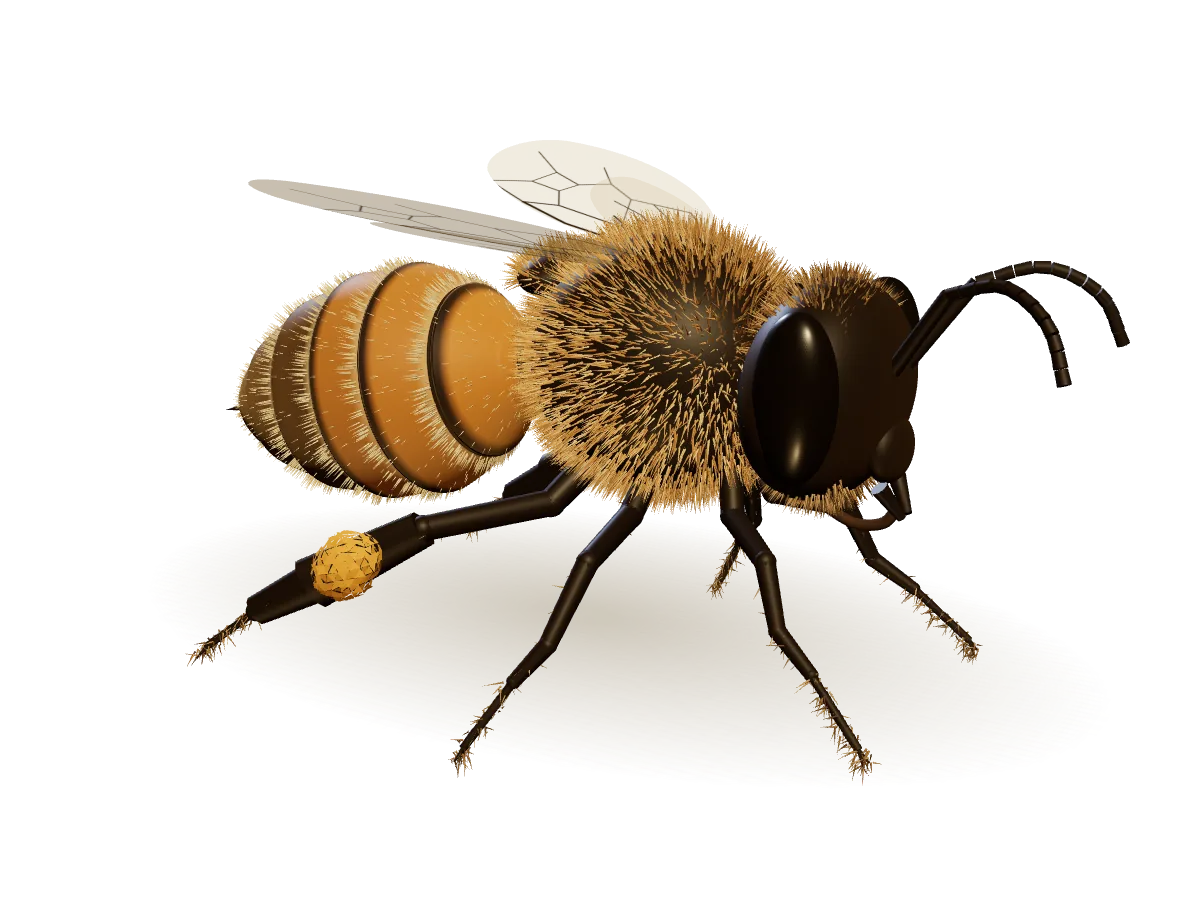
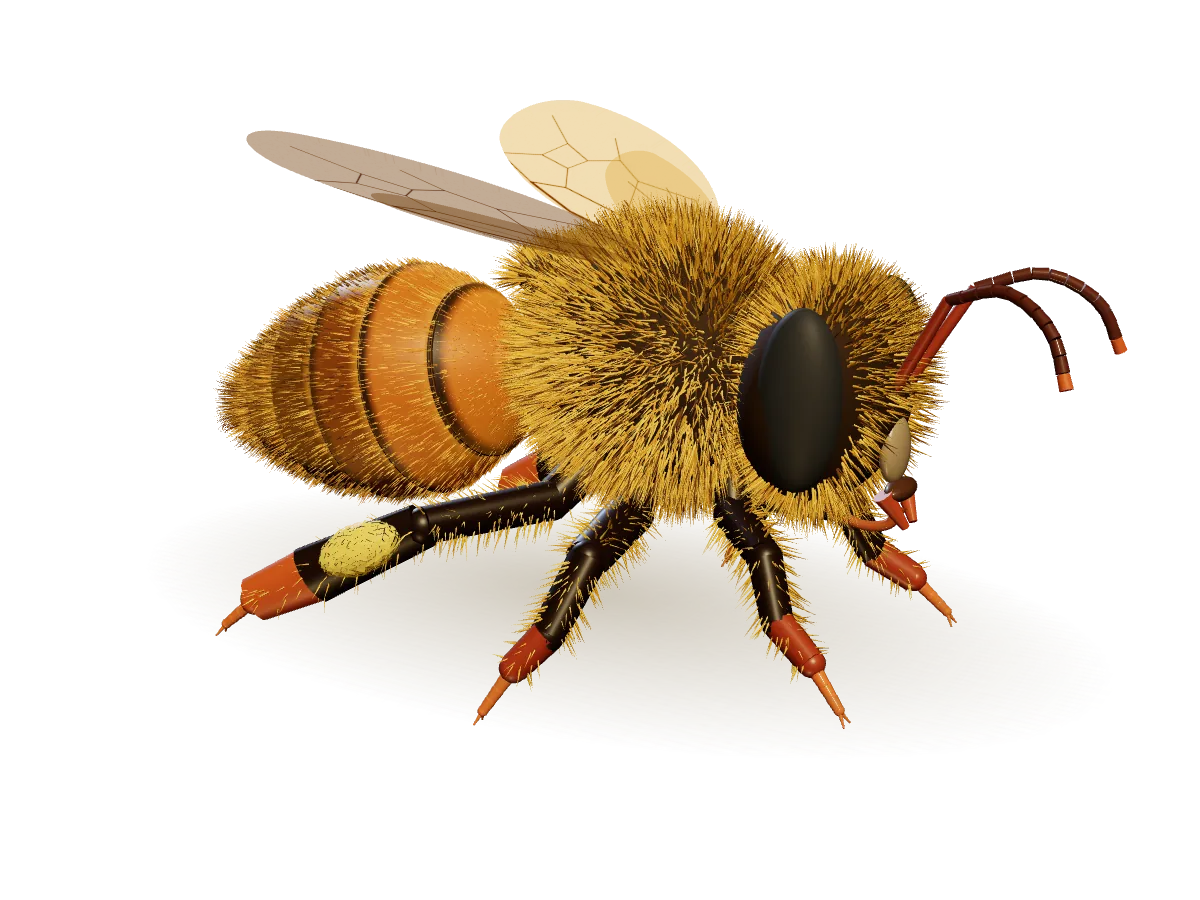
Ape 3D: nuova versione ispirata alle foto di riferimento
Pelliccia dorata fitta su torace, testa, addome e zampe; addome ambrato
davanti e bruno dietro; occhi grigio scuro opachi; faccia con clipeo
chiaro e mandibole arancio; antenne rossicce; zampe più robuste con femore
scuro, tibia rossiccia e tarsi arancio; ali ambrate e sollevate; polline
giallo limone nella cestella.

Claude-Session: https://claude.ai/code/session_0158YTuXUDsj15VT1c2xNVLb

Changed region(s): [[0.1542, 0.0933, 0.9558, 0.8711]]

diff --git a/js/ape3d.js b/js/ape3d.js
@@ -11,12 +11,12 @@ const COL = {
   cuticola: 0x241a12,
   zampe: 0x2a1f16,
   occhio: 0x17110d,
-  ambra: 0xc0802e,
-  ambraScuro: 0x8a5520,
-  banda: 0x2a1c12,
+  ambra: 0xcf7a20,
+  ambraScuro: 0x9a5418,
+  banda: 0x3a2412,
   peloTorace: [0xc49455, 0xd8b077, 0xa77a41],
   peloTesta: [0x9c7a4f, 0xb79466, 0x6f5638],
-  peloAddome: [0xd9c49a, 0xc9b183],
+  peloAddome: [0xd9a33a, 0xc99030],
   polline: 0xe3a136,
 };
 
@@ -87,7 +87,7 @@ function addome() {
   const amb = new THREE.Color(COL.ambra), ambS = new THREE.Color(COL.ambraScuro), ban = new THREE.Color(COL.banda), pel = new THREE.Color(COL.peloAddome[0]);
   for (let i = 0; i < pos.count; i++) {
     const t = -pos.getY(i) / ADDOME.L, s = (t * ADDOME.N) % 1, seg = Math.floor(t * ADDOME.N);
-    if (seg <= 2) c.copy(amb).lerp(ambS, seg * 0.25);   // ligustica: tre bande ambrate
+    if (seg <= 1) c.copy(amb).lerp(ambS, seg * 0.3); else if (seg === 2) c.copy(ambS).lerp(ban, 0.45);   // ligustica: tre bande ambrate
     else c.copy(ban).lerp(ambS, 0.12);
     if (s > 0.72) c.lerp(ban, Math.min(1, (s - 0.72) / 0.12));                 // margine scuro del tergite
     if (s < 0.16 && seg >= 1 && seg <= 4) c.lerp(pel, 0.55 * (1 - s / 0.16));  // fascia di peli chiari
@@ -103,7 +103,9 @@ function texturaAla(ant) {
   cv.width = W; cv.height = H;
   const x = cv.getContext('2d');
   x.clearRect(0, 0, W, H);
-  x.strokeStyle = 'rgba(60,42,26,1)'; x.lineCap = 'round'; x.lineJoin = 'round';
+  x.fillStyle = 'rgba(214,160,70,0.28)'; x.fillRect(0, 0, W, H);
+  for (let i = 0; i < 2600; i++) { x.fillStyle = 'rgba(150,100,40,0.18)'; x.fillRect(Math.random() * W, Math.random() * H, 1.5, 1.5); }
+  x.strokeStyle = 'rgba(112,62,24,1)'; x.lineCap = 'round'; x.lineJoin = 'round';
   const L = (w, pts) => { x.lineWidth = w; x.beginPath(); pts.forEach(([a, b], i) => (i ? x.lineTo(a * W, b * H) : x.moveTo(a * W, b * H))); x.stroke(); };
   if (ant) {
     L(7, [[0, .5], [.12, .2], [.45, .1], [.66, .13]]);            // costa
@@ -147,150 +149,163 @@ function formaAla(L, W, ant) {
 
 function ala(L, W, ant) {
   const m = new THREE.MeshPhysicalMaterial({
-    color: 0xf3ecdc, map: texturaAla(ant), transparent: true, opacity: 1, roughness: 0.25, metalness: 0,
+    color: 0xffffff, map: texturaAla(ant), transparent: true, opacity: 1, roughness: 0.22, metalness: 0,
     side: THREE.DoubleSide, depthWrite: false, iridescence: 0.9, iridescenceIOR: 1.35, iridescenceThicknessRange: [180, 520],
   });
   // membrana leggermente velata dietro le nervature
-  const veli = new THREE.MeshPhysicalMaterial({ color: 0xd9d2c0, transparent: true, opacity: 0.38, roughness: 0.2, side: THREE.DoubleSide, depthWrite: false, iridescence: 1, iridescenceIOR: 1.3, iridescenceThicknessRange: [200, 600] });
+  const veli = new THREE.MeshPhysicalMaterial({ color: 0xe9b863, transparent: true, opacity: 0.22, roughness: 0.2, side: THREE.DoubleSide, depthWrite: false, iridescence: 1, iridescenceIOR: 1.3, iridescenceThicknessRange: [200, 600] });
   const geo = formaAla(L, W, ant), gr = new THREE.Group();
   gr.add(new THREE.Mesh(geo, veli), new THREE.Mesh(geo, m));
   return gr;
 }
 
 // ---------- zampe ----------
-function zampa(punti, raggi, mat, opzioni = {}) {
+// punti: articolazioni; seg: per ogni segmento [raggio0, raggio1, materiale, piatto, densità peli, lunghezza peli]
+function zampa(punti, seg, tarsoMat, peliOut, rand) {
   const g = new THREE.Group();
   for (let i = 0; i < punti.length - 1; i++) {
-    const piatto = opzioni.piatte && opzioni.piatte.includes(i) ? 1.55 : 1;
-    const s = segmento(punti[i], punti[i + 1], raggi[i], raggi[i + 1] * (opzioni.allarga && opzioni.allarga.includes(i) ? 1.35 : 1), mat, piatto);
-    g.add(s);
-    const j = new THREE.Mesh(new THREE.SphereGeometry(raggi[i + 1] * 1.05, 12, 10), mat);
-    j.position.copy(punti[i + 1]); g.add(j);
+    let [r0, r1, mat, piatto = 1, dens = 0, lp = 0.08] = seg[i]; r0 *= 1.25; r1 *= 1.25;
+    const a = punti[i], b = punti[i + 1];
+    g.add(segmento(a, b, r0, r1, mat, piatto));
+    const j = new THREE.Mesh(new THREE.SphereGeometry(Math.min(r0, r1) * 1.02, 12, 10), mat); j.position.copy(b); g.add(j);
+    // peli: escono in tutte le direzioni dal segmento, un po' verso il basso e verso la punta
+    const ax = new THREE.Vector3().subVectors(b, a), L = ax.length(); ax.normalize();
+    const u = new THREE.Vector3().crossVectors(ax, V(0, 1, 0)); if (u.lengthSq() < 1e-4) u.set(1, 0, 0); u.normalize();
+    const w = new THREE.Vector3().crossVectors(ax, u).normalize();
+    const n = Math.round(dens * L);
+    for (let k = 0; k < n; k++) {
+      const t = rand(), phi = rand() * Math.PI * 2, r = (r0 + (r1 - r0) * t);
+      const rad = u.clone().multiplyScalar(Math.cos(phi) * piatto).addScaledVector(w, Math.sin(phi)).normalize();
+      const pos = a.clone().addScaledVector(ax, t * L).addScaledVector(rad, r * 0.9);
+      const dir = rad.clone().multiplyScalar(0.85).addScaledVector(ax, 0.45).add(V(0, -0.25, 0)).add(V(rand() - .5, rand() - .5, rand() - .5).multiplyScalar(0.35)).normalize();
+      peliOut.push({ pos, dir, len: lp * (0.6 + rand() * 0.7), r: 0.0035 + rand() * 0.002, v: rand() });
+    }
   }
-  // tarsi finali: cinque piccoli segmenti e due unghie
+  // tarsi finali: quattro piccoli segmenti e due unghie
   const a = punti[punti.length - 2], b = punti[punti.length - 1], d = new THREE.Vector3().subVectors(b, a).normalize();
   let p = b.clone();
-  for (let k = 0; k < 4; k++) { const q = p.clone().addScaledVector(d, 0.07).add(V(0, -0.012, 0)); g.add(segmento(p, q, 0.017, 0.015, mat)); p = q; }
-  g.add(segmento(p, p.clone().add(V(d.x * .04, -.05, .025)), 0.008, 0.003, mat), segmento(p, p.clone().add(V(d.x * .04, -.05, -.025)), 0.008, 0.003, mat));
+  for (let k = 0; k < 4; k++) { const q = p.clone().addScaledVector(d, 0.04).add(V(0, -0.012, 0)); g.add(segmento(p, q, 0.028 - k * .002, 0.024 - k * .002, tarsoMat)); const jj = new THREE.Mesh(new THREE.SphereGeometry(0.026 - k * .002, 10, 8), tarsoMat); jj.position.copy(q); g.add(jj); p = q; }
+  g.add(segmento(p, p.clone().add(V(d.x * .04, -.05, .028)), 0.009, 0.003, tarsoMat), segmento(p, p.clone().add(V(d.x * .04, -.05, -.028)), 0.009, 0.003, tarsoMat));
   return g;
 }
 
+const ORO = [0xe2aa24, 0xd69b1c, 0xf0c03e, 0xc48a16, 0xe8b430, 0x6a4818];   // l'ultimo è il sottopelo scuro
+const ORO_SCURO = [0x8a6424, 0x6b4a1e, 0xa87c2c, 0x4e3416, 0xc89a34];
+
 // ---------- l'ape ----------
 export function costruisciApe() {
-  const rand = rng(20260708);
+  const rand = rng(20261108);
   const ape = new THREE.Group();
-  const cut = new THREE.MeshPhysicalMaterial({ color: COL.cuticola, roughness: 0.55, clearcoat: 0.35, clearcoatRoughness: 0.5, sheen: 0.6, sheenColor: new THREE.Color(0x6b5236), sheenRoughness: 0.6 });
-  const legMat = new THREE.MeshPhysicalMaterial({ color: COL.zampe, roughness: 0.5, clearcoat: 0.4, clearcoatRoughness: 0.45 });
-  const peloMat = new THREE.MeshStandardMaterial({ roughness: 0.85, metalness: 0 });
-  const corpo = [];   // mesh usate per capire se un punto è nascosto
+  const mat = (color, o = {}) => new THREE.MeshPhysicalMaterial({ color, roughness: 0.6, ...o });
+  const cut = mat(0x3a2816, { roughness: 0.75 });
+  const nero = mat(0x2a1a10, { roughness: 0.4, clearcoat: 0.6, clearcoatRoughness: 0.35 });
+  const rosso = mat(0x9c4422, { roughness: 0.38, clearcoat: 0.7, clearcoatRoughness: 0.3 });
+  const arancio = mat(0xc4602a, { roughness: 0.4, clearcoat: 0.6, clearcoatRoughness: 0.3 });
+  const tarso = mat(0xd2722e, { roughness: 0.45, clearcoat: 0.5 });
+  const peloMat = new THREE.MeshStandardMaterial({ roughness: 0.75, metalness: 0 });
+  const corpo = [];
 
-  // torace
+  // torace: base scura sotto una pelliccia dorata fitta
   const TC = V(0.45, 0.05, 0), TS = V(0.55, 0.5, 0.48);
   const torace = new THREE.Mesh(ellissoide(TS.x, TS.y, TS.z), cut); torace.position.copy(TC); ape.add(torace); corpo.push(torace);
-  // scutello, la piccola gobba dietro il torace
   const scut = new THREE.Mesh(ellissoide(0.17, 0.1, 0.26), cut); scut.position.set(0.0, 0.36, 0); ape.add(scut);
-  ape.add(peli(puntiSuEllissoide(500, V(0.0, 0.36, 0), V(0.17, 0.1, 0.26), 0.07, d => d.y > -0.2, rand, 0.4), COL.peloTorace, peloMat));
-  ape.add(peli(puntiSuEllissoide(7000, TC, TS.clone().multiplyScalar(0.99), 0.1, null, rand, 0.3), COL.peloTorace, peloMat));
+  ape.add(peli(puntiSuEllissoide(11000, TC, TS.clone().multiplyScalar(0.99), 0.14, null, rand, 0.22), ORO, peloMat));
+  ape.add(peli(puntiSuEllissoide(700, V(0.0, 0.36, 0), V(0.17, 0.1, 0.26), 0.1, d => d.y > -0.2, rand, 0.35), ORO, peloMat));
 
   // peziolo e addome
   const pez = new THREE.Mesh(ellissoide(0.12, 0.1, 0.11, 20), cut); pez.position.set(-0.12, -0.02, 0); ape.add(pez);
-  const addomeMat = new THREE.MeshPhysicalMaterial({ vertexColors: true, roughness: 0.62, clearcoat: 0.2, clearcoatRoughness: 0.55, sheen: 0.5, sheenColor: new THREE.Color(0xe0c08a), sheenRoughness: 0.5 });
+  const addomeMat = new THREE.MeshPhysicalMaterial({ vertexColors: true, roughness: 0.5, clearcoat: 0.35, clearcoatRoughness: 0.4, sheen: 0.7, sheenColor: new THREE.Color(0xe8b040), sheenRoughness: 0.45 });
   const add = new THREE.Mesh(addome(), addomeMat);
   const gAdd = new THREE.Group(); gAdd.position.set(-0.16, -0.02, 0); gAdd.rotation.z = 0.24; ape.add(gAdd);
-  add.rotation.z = -Math.PI / 2;   // asse dell'addome lungo -x
-  gAdd.add(add); corpo.push(add);
-  // peli corti sulle fasce chiare dell'addome
-  const pAdd = [];
-  for (let i = 0; i < 2600; i++) {
-    const fascia = rand() < 0.6, seg = fascia ? 1 + Math.floor(rand() * 4) : Math.floor(rand() * 6), t = (seg + rand() * (fascia ? 0.15 : 0.9)) / ADDOME.N, phi = rand() * Math.PI * 2, r = raggioAddome(t);
-    const pos = V(-t * ADDOME.L, Math.cos(phi) * r, Math.sin(phi) * r);
-    const dir = V(-0.6, Math.cos(phi), Math.sin(phi)).normalize();
-    pAdd.push({ pos, dir, len: fascia ? 0.045 + rand() * 0.03 : 0.02 + rand() * 0.02, r: fascia ? 0.0045 : 0.003, v: rand() });
+  add.rotation.z = -Math.PI / 2; gAdd.add(add); corpo.push(add);
+  // peluria su tutto l'addome: dorata davanti, bruna sui segmenti scuri, fasce chiare all'inizio di ogni tergite
+  const pDav = [], pDie = [];
+  for (let i = 0; i < 9000; i++) {
+    const t = 0.03 + rand() * 0.95, s = (t * ADDOME.N) % 1, seg = Math.floor(t * ADDOME.N), phi = rand() * Math.PI * 2, r = raggioAddome(t);
+    const pos = V(-t * ADDOME.L, Math.cos(phi) * r * 0.99, Math.sin(phi) * r * 0.99);
+    const dir = V(-0.9 - rand() * 0.4, Math.cos(phi), Math.sin(phi)).add(V(0, rand() - .5, rand() - .5).multiplyScalar(0.3)).normalize();
+    const fascia = s < 0.2;
+    const p = { pos, dir, len: (t > 0.9 ? 0.09 : fascia ? 0.07 : 0.045) * (0.6 + rand() * 0.8), r: 0.003 + rand() * 0.0018, v: rand() };
+    (seg <= 1 || fascia ? pDav : pDie).push(p);
   }
-  const pa = peli(pAdd, COL.peloAddome, peloMat); gAdd.add(pa);
-  // pungiglione
-  const pung = new THREE.Mesh(new THREE.ConeGeometry(0.022, 0.16, 10), new THREE.MeshStandardMaterial({ color: 0x3a2a1a, roughness: 0.4 }));
+  gAdd.add(peli(pDav, [0xe0a02a, 0xd08e22, 0xeeb840, 0xc07a1c], peloMat), peli(pDie, ORO_SCURO, peloMat));
+  const pung = new THREE.Mesh(new THREE.ConeGeometry(0.02, 0.17, 10), mat(0xc0602a, { roughness: 0.35 }));
   pung.rotation.z = Math.PI / 2; pung.position.set(-ADDOME.L - 0.06, 0, 0); gAdd.add(pung);
 
   // testa
   const HC = V(1.13, 0.02, 0), HS = V(0.3, 0.42, 0.46);
   const testa = new THREE.Mesh(ellissoide(HS.x, HS.y, HS.z), cut); testa.position.copy(HC); testa.rotation.z = -0.15; ape.add(testa); corpo.push(testa);
-  ape.add(peli(puntiSuEllissoide(1400, HC, HS, 0.06, d => d.x < 0.55 && Math.abs(d.z) < 0.55, rand, 0.1), COL.peloTesta, peloMat));
-  // occhi composti con la trama degli ommatidi
-  const occhioMat = new THREE.MeshPhysicalMaterial({ color: COL.occhio, roughness: 0.35, clearcoat: 0.7, clearcoatRoughness: 0.25, sheen: 0.4, sheenColor: new THREE.Color(0x5a4a3a), normalMap: texturaOmmatidi(), normalScale: new THREE.Vector2(0.6, 0.6) });
+  ape.add(peli(puntiSuEllissoide(3200, HC, HS.clone().multiplyScalar(1.0), 0.11, d => !(d.x > 0.5 && d.y < -0.05 && Math.abs(d.z) < 0.4) && Math.abs(d.z) < 0.66, rand, 0.05), ORO, peloMat));
+  // occhi: grandi, grigio scuro opaco, con la trama fine degli ommatidi
+  const occhioMat = new THREE.MeshPhysicalMaterial({ color: 0x3a3d41, roughness: 0.62, clearcoat: 0.18, clearcoatRoughness: 0.5, normalMap: texturaOmmatidi(), normalScale: new THREE.Vector2(0.45, 0.45) });
   for (const z of [1, -1]) {
-    const o = new THREE.Mesh(ellissoide(0.17, 0.33, 0.13, 48), occhioMat);
-    o.position.set(1.16, 0.06, 0.37 * z); o.rotation.set(0.12 * z, -0.35 * z, -0.12); ape.add(o); corpo.push(o);
+    const o = new THREE.Mesh(ellissoide(0.17, 0.35, 0.13, 56), occhioMat);
+    o.position.set(1.17, 0.05, 0.355 * z); o.rotation.set(0.12 * z, -0.35 * z, -0.12); ape.add(o); corpo.push(o);
   }
-  // ocelli
   for (const [x, y, z] of [[1.1, 0.42, 0], [1.03, 0.39, 0.09], [1.03, 0.39, -0.09]]) {
     const oc = new THREE.Mesh(new THREE.SphereGeometry(0.032, 16, 12), occhioMat); oc.position.set(x, y, z); ape.add(oc);
   }
-  // clipeo e mandibole
-  const clip = new THREE.Mesh(ellissoide(0.08, 0.13, 0.15), cut); clip.position.set(1.38, -0.17, 0); ape.add(clip);
-  for (const z of [1, -1]) ape.add(segmento(V(1.38, -0.3, 0.09 * z), V(1.45, -0.42, 0.03 * z), 0.035, 0.018, legMat));
-  // antenne: scapo lungo, gomito, flagello segmentato
-  const antenne = new THREE.Group();
+  // faccia: clipeo chiaro e lucido, labbro, mandibole arancio
+  const clip = new THREE.Mesh(ellissoide(0.05, 0.13, 0.1), mat(0xa39275, { roughness: 0.3, clearcoat: 0.8, clearcoatRoughness: 0.2 }));
+  clip.position.set(1.4, -0.17, 0); ape.add(clip);
+  const labbro = new THREE.Mesh(ellissoide(0.05, 0.04, 0.11), mat(0x5a3a22, { roughness: 0.4, clearcoat: 0.5 })); labbro.position.set(1.43, -0.32, 0); ape.add(labbro);
+  const mand = mat(0xb4542a, { roughness: 0.35, clearcoat: 0.7 });
+  for (const z of [1, -1]) ape.add(segmento(V(1.4, -0.32, 0.1 * z), V(1.47, -0.45, 0.04 * z), 0.04, 0.016, mand));
+  // antenne: scapo rossiccio, flagello bruno segmentato con la punta chiara
+  const antenne = new THREE.Group(), flag = mat(0x5e3020, { roughness: 0.45, clearcoat: 0.4 }), punta = mat(0xc4602a, { roughness: 0.4 });
   for (const z of [1, -1]) {
-    const a0 = V(1.4, 0.13, 0.07 * z), gom = V(1.62, 0.44, 0.15 * z);
-    antenne.add(segmento(a0, gom, 0.03, 0.026, legMat));
-    const fl = new THREE.CatmullRomCurve3([gom, V(1.84, 0.5, 0.24 * z), V(2.02, 0.4, 0.33 * z), V(2.1, 0.22, 0.38 * z)]);
-    for (let k = 0; k < 11; k++) {
-      const p0 = fl.getPoint(k / 11), p1 = fl.getPoint((k + 0.92) / 11);
-      antenne.add(segmento(p0, p1, 0.022, 0.024, legMat));
-    }
+    const a0 = V(1.42, 0.08, 0.07 * z), gom = V(1.62, 0.42, 0.14 * z);
+    antenne.add(segmento(a0, gom, 0.025, 0.022, rosso));
+    const fl = new THREE.CatmullRomCurve3([gom, V(1.84, 0.48, 0.22 * z), V(2.02, 0.38, 0.3 * z), V(2.1, 0.2, 0.35 * z)]);
+    for (let k = 0; k < 11; k++) antenne.add(segmento(fl.getPoint(k / 11), fl.getPoint((k + 0.94) / 11), 0.021, 0.023, k === 10 ? punta : flag));
   }
   ape.add(antenne);
-  // ligula: la lingua, ripiegata sotto la testa; si distende a comando
-  const ligMat = new THREE.MeshStandardMaterial({ color: 0x4a3420, roughness: 0.6 });
-  const ligula = new THREE.Mesh(new THREE.BufferGeometry(), ligMat); ape.add(ligula);
+  // ligula
+  const ligula = new THREE.Mesh(new THREE.BufferGeometry(), mat(0xa85a2a, { roughness: 0.5, clearcoat: 0.3 })); ape.add(ligula);
   const curvaLigula = (k) => new THREE.CatmullRomCurve3([
-    V(1.42, -0.4, 0), V(1.37 + 0.45 * k, -0.46 - 0.12 * k, 0), V(1.26 + 0.95 * k, -0.48 - 0.2 * k, 0), V(1.13 + 1.3 * k, -0.43 - 0.35 * k, 0)]);
-  const setLigula = (k) => { ligula.geometry.dispose(); ligula.geometry = new THREE.TubeGeometry(curvaLigula(k), 40, 0.022, 8); };
+    V(1.44, -0.38, 0), V(1.39 + 0.45 * k, -0.46 - 0.12 * k, 0), V(1.28 + 0.95 * k, -0.48 - 0.2 * k, 0), V(1.15 + 1.3 * k, -0.43 - 0.35 * k, 0)]);
+  const setLigula = (k) => { ligula.geometry.dispose(); ligula.geometry = new THREE.TubeGeometry(curvaLigula(k), 40, 0.02, 8); };
   setLigula(0);
 
-  // ali (lato destro z>0, specchiate a sinistra)
+  // ali ambrate, sollevate come nelle foto
   const ali = [];
   for (const z of [1, -1]) {
-    for (const [ant, L, W, y, rot] of [[true, 1.6, 0.52, 0.47, 0.42], [false, 1.12, 0.36, 0.43, 0.62]]) {
+    for (const [ant, L, W, y, rot, alza] of [[true, 1.62, 0.54, 0.47, 0.5, 0.55], [false, 1.14, 0.37, 0.43, 0.72, 0.42]]) {
       const pivot = new THREE.Group(); pivot.position.set(0.55, y, 0.2 * z);
-      const a = ala(L, W, ant); a.rotation.y = Math.PI + rot;   // punta verso dietro e in fuori
-      pivot.add(a); pivot.scale.z = z;                           // il lato sinistro è lo specchio del destro
-      const alza = ant ? 0.34 : 0.26; pivot.rotation.x = -alza * z; pivot.userData = { z, base: -alza * z, ant };
+      const a = ala(L, W, ant); a.rotation.y = Math.PI + rot;
+      pivot.add(a); pivot.scale.z = z;
+      pivot.rotation.x = -alza * z; pivot.userData = { z, base: -alza * z, ant };
       ape.add(pivot); ali.push(pivot);
     }
   }
 
-  // zampe
-  const zamp = new THREE.Group(); let cestella = null;
+  // zampe: femore scuro con frangia dorata, tibia rossiccia, basitarso arancio
+  const zamp = new THREE.Group(), pZ = []; let cestella = null;
   for (const z of [1, -1]) {
-    const Z = (p) => V(p[0], p[1] < -0.4 ? -0.4 + (p[1] + 0.4) * 0.68 : p[1], p[2] * z * 0.92);
-    zamp.add(zampa([[0.78, -0.3, 0.1], [0.84, -0.5, 0.2], [1.07, -0.62, 0.42], [1.16, -0.95, 0.5], [1.32, -1.12, 0.56]].map(Z), [0.05, 0.046, 0.04, 0.032, 0.025], legMat));
-    zamp.add(zampa([[0.45, -0.38, 0.15], [0.45, -0.55, 0.3], [0.5, -0.64, 0.74], [0.44, -1.04, 0.94], [0.34, -1.24, 1.02]].map(Z), [0.052, 0.048, 0.042, 0.034, 0.026], legMat));
-    // zampa posteriore: tibia e basitarso larghi, la cestella del polline
-    zamp.add(zampa([[0.2, -0.35, 0.15], [0.1, -0.55, 0.32], [-0.2, -0.6, 0.8], [-0.64, -0.98, 0.95], [-0.9, -1.2, 1.0]].map(Z), [0.06, 0.055, 0.05, 0.055, 0.04], legMat, { piatte: [2, 3], allarga: [2] }));
-    // pallottola di polline sulla tibia
-    const pg = new THREE.IcosahedronGeometry(0.13, 3), pp = pg.attributes.position;
-    for (let i = 0; i < pp.count; i++) { const v = V(pp.getX(i), pp.getY(i), pp.getZ(i)); v.multiplyScalar(1 + (rand() - 0.5) * 0.12); pp.setXYZ(i, v.x, v.y, v.z); }
-    pg.computeVertexNormals(); pg.scale(1.25, 0.95, 0.85);
-    const pol = new THREE.Mesh(pg, new THREE.MeshStandardMaterial({ color: COL.polline, roughness: 0.95 }));
-    pol.position.set(-0.43, -0.67, 0.92 * z); pol.rotation.z = 0.7; zamp.add(pol);
+    const Z = (p) => V(p[0], p[1] < -0.4 ? -0.4 + (p[1] + 0.4) * 0.62 : p[1], p[2] * z * 0.92);
+    zamp.add(zampa([[0.78, -0.3, 0.1], [0.84, -0.5, 0.2], [1.07, -0.62, 0.42], [1.16, -0.95, 0.5], [1.32, -1.12, 0.56]].map(Z),
+      [[0.062, 0.058, nero, 1, 120, 0.06], [0.058, 0.052, nero, 1.25, 420, 0.1], [0.052, 0.048, nero, 1.2, 380, 0.09], [0.046, 0.04, rosso, 1.15, 200, 0.07]], tarso, pZ, rand));
+    zamp.add(zampa([[0.45, -0.38, 0.15], [0.45, -0.55, 0.3], [0.5, -0.64, 0.74], [0.44, -1.04, 0.94], [0.34, -1.24, 1.02]].map(Z),
+      [[0.064, 0.06, nero, 1, 120, 0.06], [0.06, 0.054, nero, 1.3, 420, 0.1], [0.055, 0.05, nero, 1.25, 360, 0.09], [0.048, 0.042, rosso, 1.2, 180, 0.07]], tarso, pZ, rand));
+    const H = [[0.2, -0.35, 0.15], [0.1, -0.55, 0.32], [-0.2, -0.6, 0.8], [-0.64, -0.98, 0.95], [-0.9, -1.2, 1.0]].map(Z);
+    zamp.add(zampa(H, [[0.07, 0.064, nero, 1, 120, 0.06], [0.064, 0.058, nero, 1.3, 380, 0.09], [0.05, 0.066, nero, 1.55, 160, 0.08], [0.058, 0.048, arancio, 1.6, 160, 0.06]], tarso, pZ, rand));
+    // pallottola di polline giallo limone nella cestella della tibia
+    const pg = new THREE.IcosahedronGeometry(0.1, 4), pp = pg.attributes.position;
+    for (let i = 0; i < pp.count; i++) { const v = V(pp.getX(i), pp.getY(i), pp.getZ(i)); v.multiplyScalar(1 + (rand() - 0.5) * 0.06); pp.setXYZ(i, v.x, v.y, v.z); }
+    pg.computeVertexNormals(); pg.scale(1, 1.75, 0.9);
+    const pol = new THREE.Mesh(pg, mat(0xf0d43c, { roughness: 0.55, clearcoat: 0.25, sheen: 0.6, sheenColor: new THREE.Color(0xfff2a0) }));
+    const mid = H[2].clone().lerp(H[3], 0.5), axT = new THREE.Vector3().subVectors(H[3], H[2]).normalize();
+    pol.position.copy(mid).add(V(0.02, 0.03, 0.07 * z)); pol.quaternion.setFromUnitVectors(V(0, 1, 0), axT); zamp.add(pol);
     if (z > 0) cestella = pol;
   }
   ape.add(zamp);
-  // peli sulle zampe
-  const pZ = [];
-  zamp.traverse(o => { if (o.isMesh && o.geometry.type === 'CylinderGeometry') {
-    for (let i = 0; i < 14; i++) {
-      const p = V((rand() - .5) * .05, (rand() - .5) * o.geometry.parameters.height, (rand() - .5) * .05).applyMatrix4(o.matrixWorld.clone().compose(o.position, o.quaternion, o.scale));
-      pZ.push({ pos: p, dir: V(rand() - .7, -rand(), rand() - .5).normalize(), len: 0.04 + rand() * .04, r: 0.004, v: rand() });
-    } } });
-  ape.add(peli(pZ, COL.peloTesta, peloMat));
+  ape.add(peli(pZ, [0xe8b428, 0xf0c440, 0xd8a020, 0xc89418], peloMat));
 
   ape.position.set(-0.15, 0.25, 0);
+  const pc = cestella.position;
   return { ape, corpo, ali, setLigula, cestella, punti: {
-    occhi: V(1.22, 0.14, 0.56), antenne: V(1.62, 0.44, 0.17), ligula: V(1.42, -0.48, 0.05), peli: V(0.5, 0.62, 0.1),
-    ali: V(-0.15, 0.55, 0.6), cestella: V(-0.43, -0.67, 1.06), addome: V(-0.9, 0.2, 0.42), pungiglione: V(-1.72, -0.42, 0) } };
+    occhi: V(1.22, 0.14, 0.58), antenne: V(1.62, 0.42, 0.17), ligula: V(1.44, -0.48, 0.05), peli: V(0.5, 0.68, 0.1),
+    ali: V(-0.1, 0.75, 0.6), cestella: V(pc.x, pc.y, pc.z + 0.14), addome: V(-0.9, 0.25, 0.46), pungiglione: V(-1.72, -0.42, 0) } };
 }
 
 function texturaOmmatidi() {
@@ -303,7 +318,7 @@ function texturaOmmatidi() {
     g.addColorStop(0, 'rgb(110,110,255)'); g.addColorStop(0.7, 'rgb(150,150,255)'); g.addColorStop(1, 'rgb(128,128,230)');
     x.fillStyle = g; x.beginPath(); x.arc(cx, cy, r * 0.95, 0, Math.PI * 2); x.fill();
   }
-  const t = new THREE.CanvasTexture(cv); t.wrapS = t.wrapT = THREE.RepeatWrapping; t.repeat.set(3, 3);
+  const t = new THREE.CanvasTexture(cv); t.wrapS = t.wrapT = THREE.RepeatWrapping; t.repeat.set(6, 6);
   return t;
 }
 
@@ -336,7 +351,7 @@ export function avvia(contenitore, { onSeleziona } = {}) {
   const gr = cx.createRadialGradient(64, 64, 4, 64, 64, 64); gr.addColorStop(0, 'rgba(40,30,15,0.35)'); gr.addColorStop(1, 'rgba(40,30,15,0)');
   cx.fillStyle = gr; cx.fillRect(0, 0, 128, 128);
   const ombra = new THREE.Mesh(new THREE.PlaneGeometry(4.2, 2.6), new THREE.MeshBasicMaterial({ map: new THREE.CanvasTexture(cv), transparent: true, depthWrite: false }));
-  ombra.rotation.x = -Math.PI / 2; ombra.position.set(0, -0.78, 0.1); scena.add(ombra);
+  ombra.rotation.x = -Math.PI / 2; ombra.position.set(0, -0.68, 0.1); scena.add(ombra);
 
   const ctr = new OrbitControls(cam, renderer.domElement);
   ctr.target.set(0, -0.1, 0); ctr.enableDamping = true; ctr.dampingFactor = 0.08; ctr.enablePan = false;
